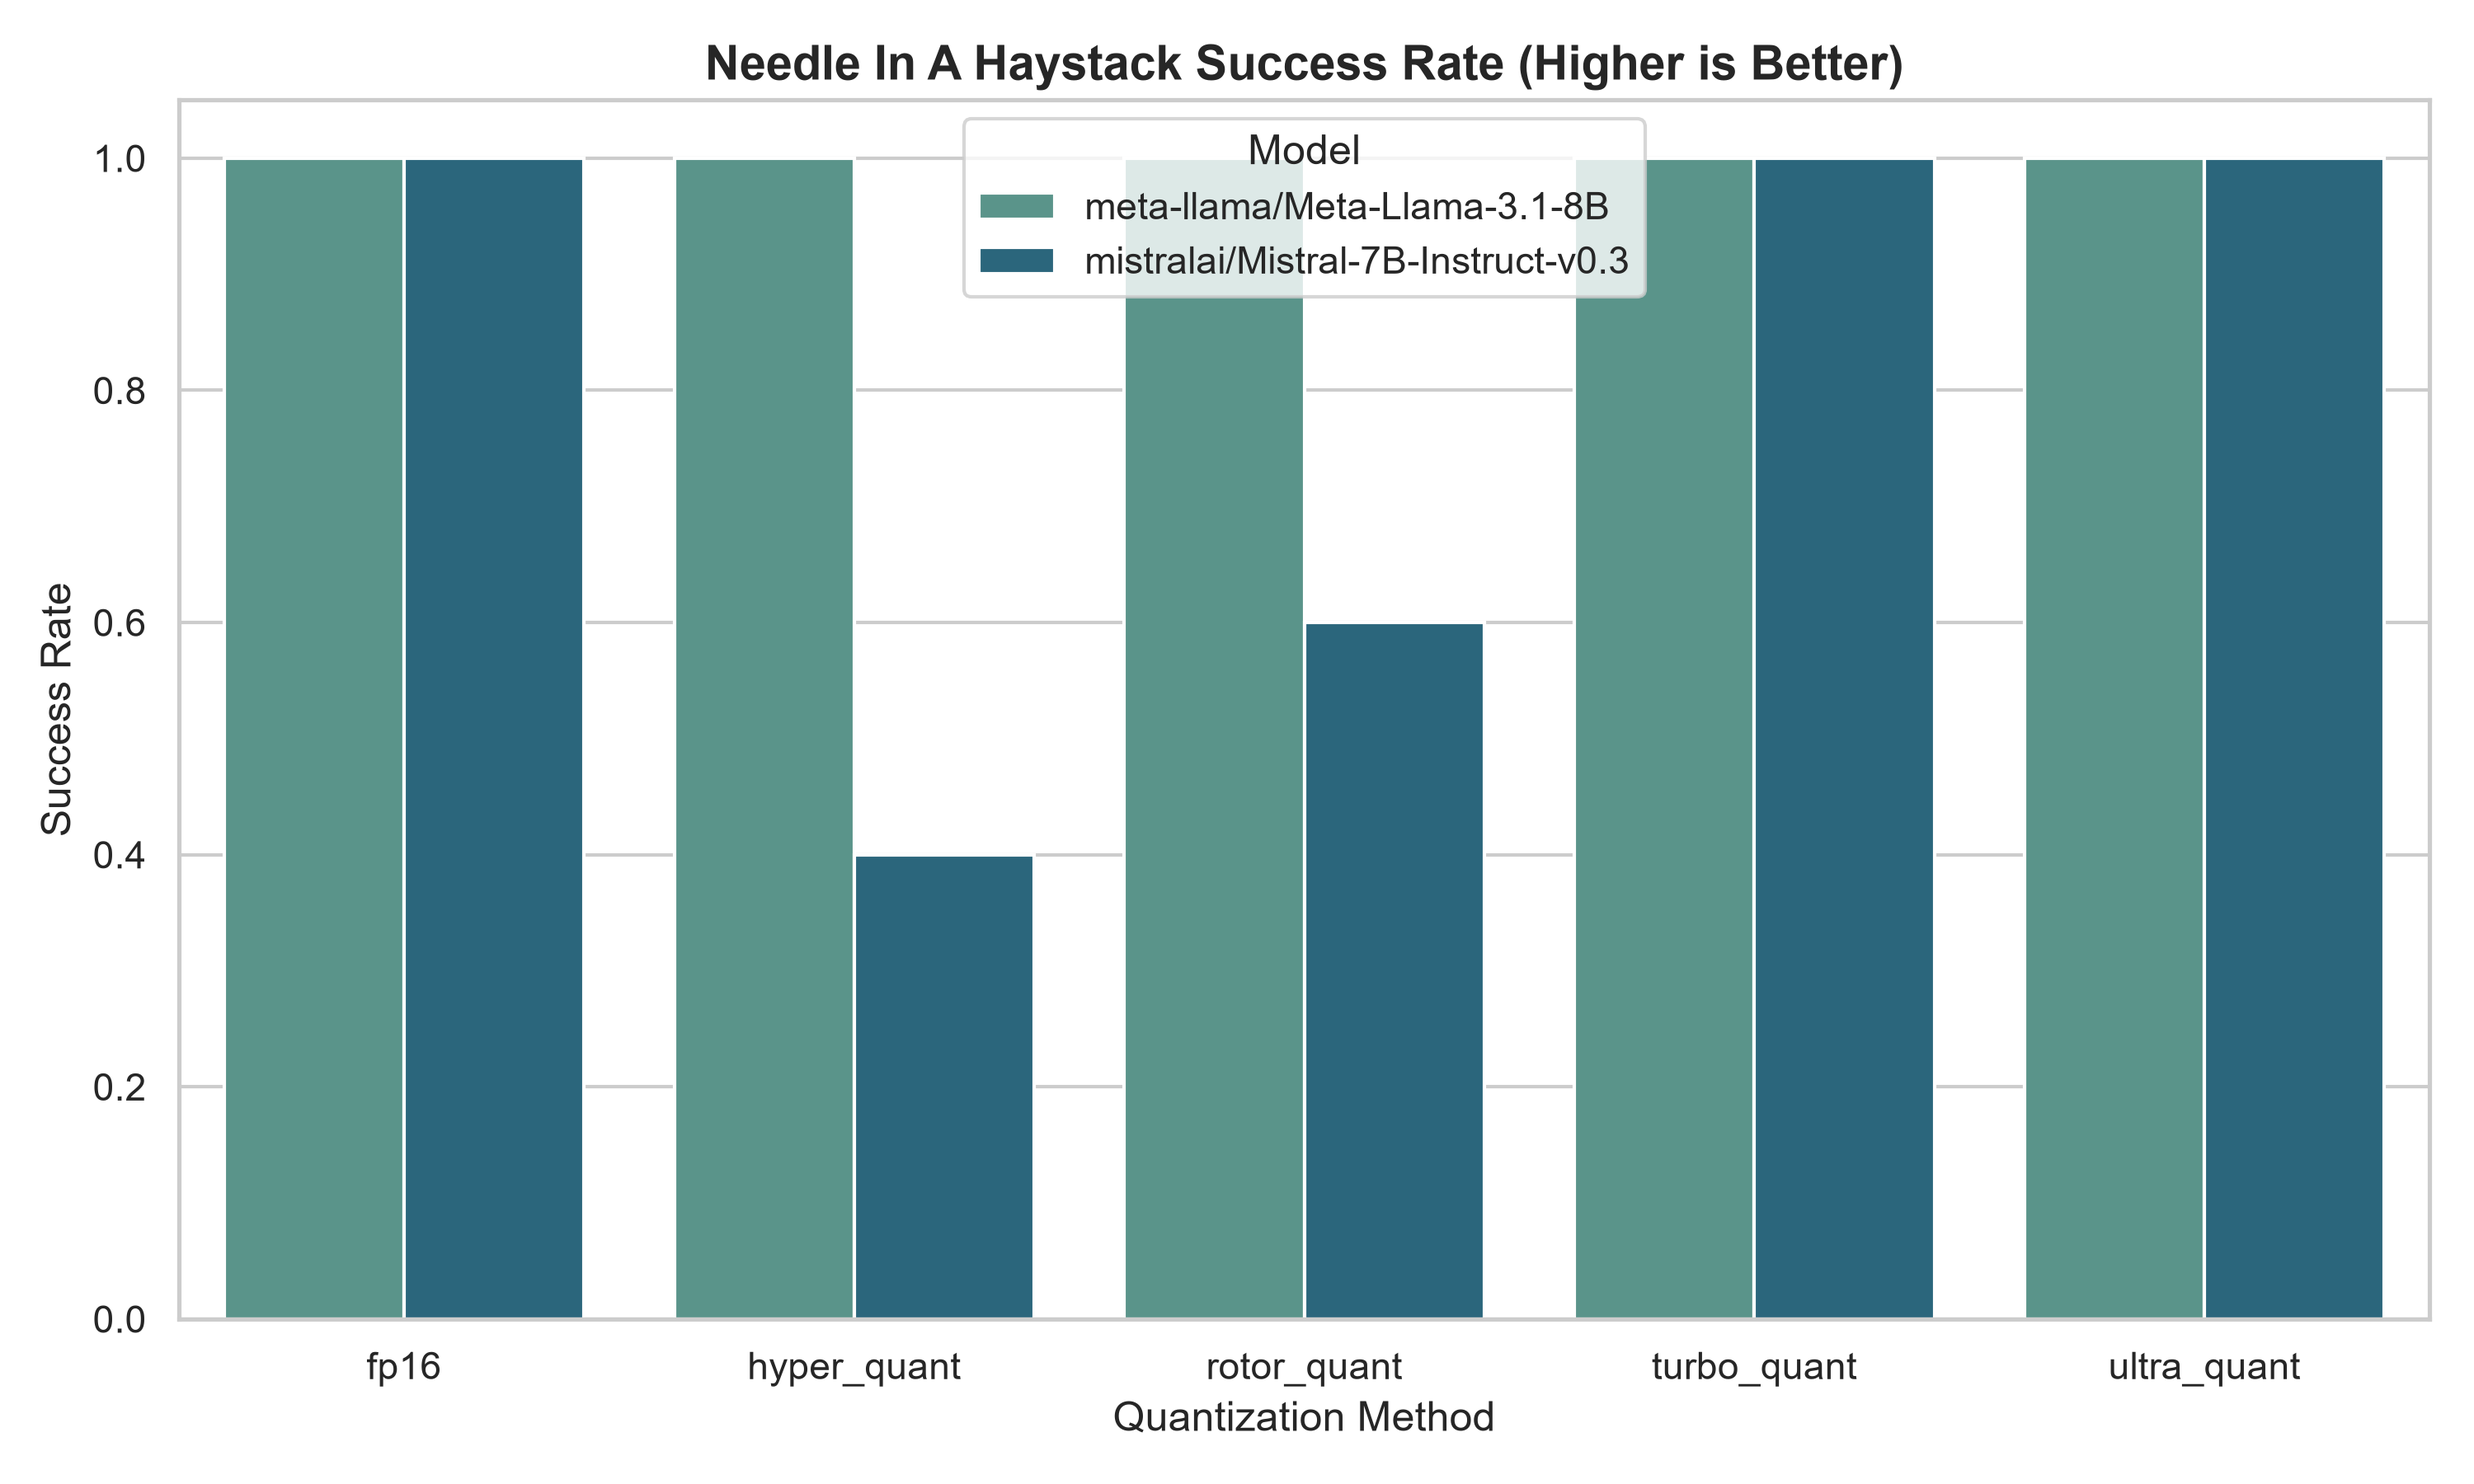
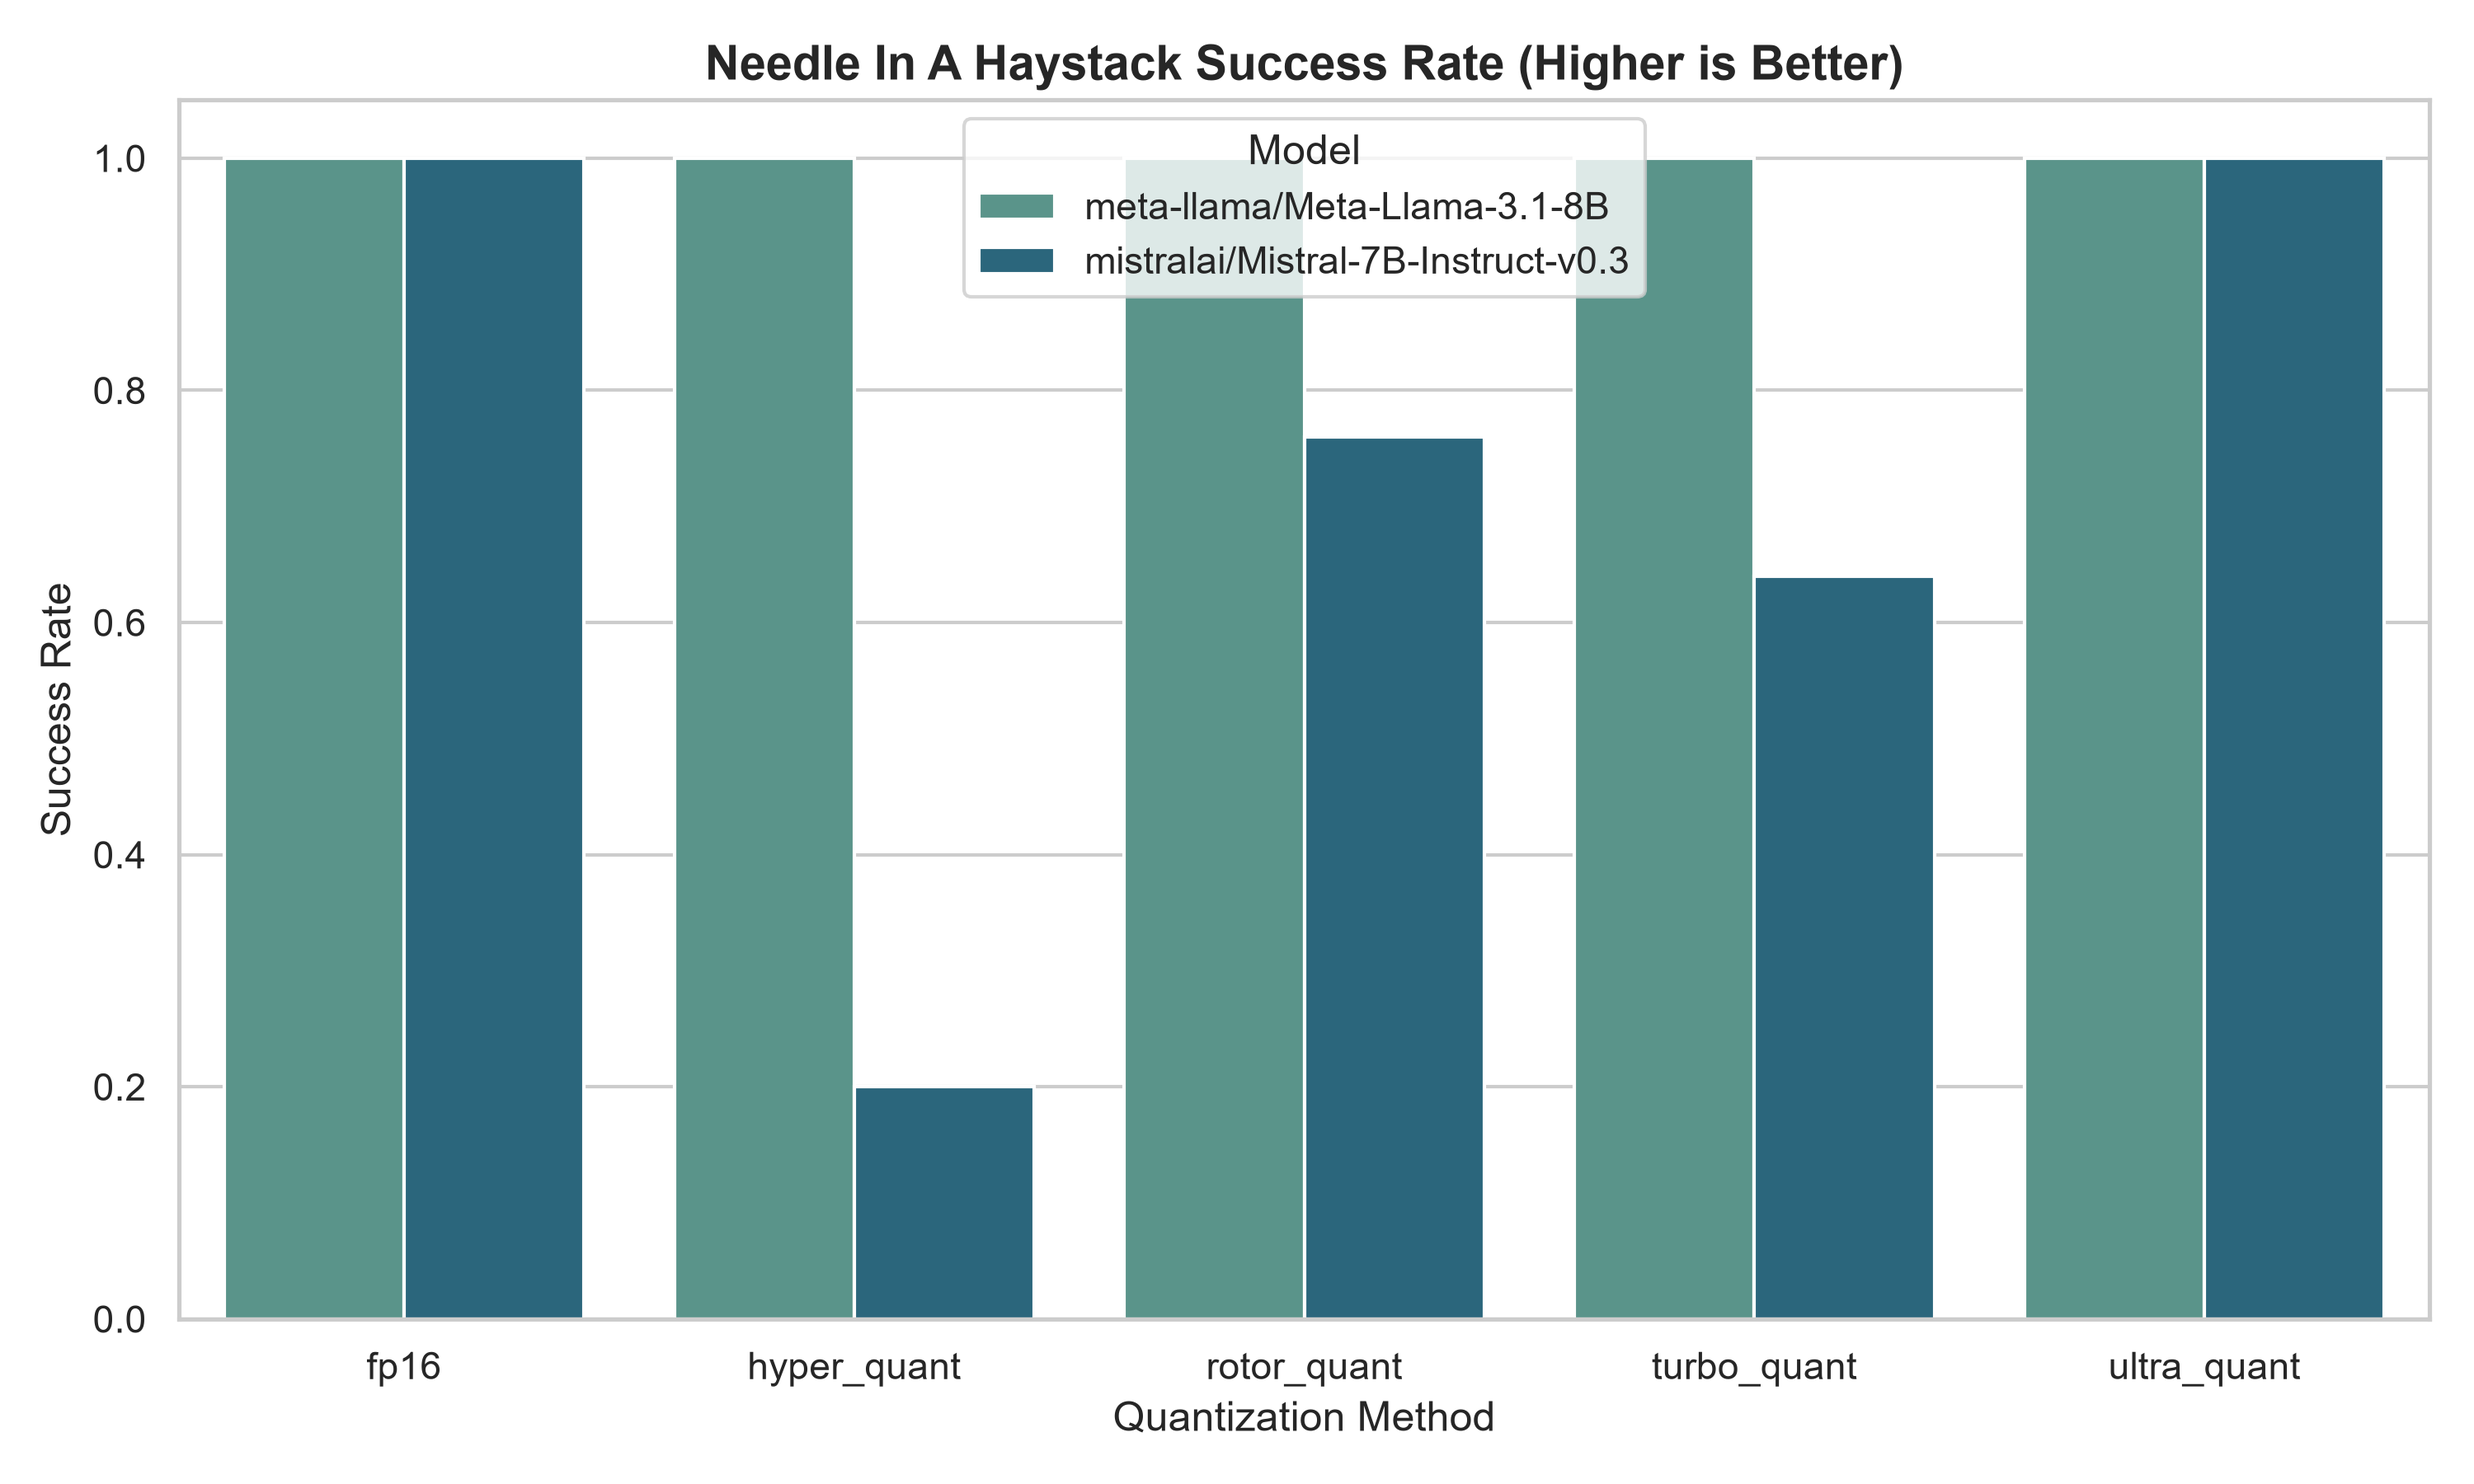
Update READMEs & results summary to 25-trial NIAH results; regenerate summary CSV & plots

Changed region(s): [[0.682, 0.0933, 0.806, 0.4044], [0.341, 0.56, 0.434, 0.7467], [0.527, 0.28, 0.62, 0.4356]]

diff --git a/README.ja.md b/README.ja.md
@@ -154,7 +154,7 @@ ultra_quant は FP4 (E2M1) の **16点固定グリッドが手法の定義その
 - **Perplexity**：WikiText-2、window 2048 / stride 512 → `eval_pt/eval_ppl.py`
 - **Logit 忠実度**：最終 logits のコサイン類似度・Top-1一致率・Top-5**重なり率**（seq 1024） → `eval_pt/eval_fidelity.py`
 - **KV 忠実度**：キャッシュの K/V ベクトル自体のコサイン類似度・相対L2誤差（量子化誤差そのものを直接測定） → 同上
-- **NIAH**：深度 {10/30/50/70/90%} × 1 試行の**成功率**（8Kコンテキスト、greedy 16トークン、鍵の完全一致） → `eval_pt/eval_niah.py`
+- **NIAH**：深度 {10/30/50/70/90%} × 各深度5試行（= 計25試行）の**成功率**（8Kコンテキスト、greedy 16トークン、鍵の完全一致） → `eval_pt/eval_niah.py`
 - **LongBench**：正式 LongBench の **Qasper** QAタスク、先頭10サンプル、公式形式のトークンF1、左側6144トークン切り捨て → `eval_pt/eval_longbench.py`
 
 ### システム指標（主張の範囲を限定した扱い）
@@ -176,7 +176,7 @@ ultra_quant は FP4 (E2M1) の **16点固定グリッドが手法の定義その
 対象モデル：`meta-llama/Meta-Llama-3.1-8B`、`mistralai/Mistral-7B-Instruct-v0.3`
 比較手法：fp16（ベースライン）、turbo_quant、rotor_quant、hyper_quant、ultra_quant
 
-> 🗂 **結果の出処**：以下の表は 2026-08 の修正済みハーネスでの再計測値です（jobs 373124 + 373434、`results/ai-l40s/*.json` を機械集計した全表は [`results/ai-l40s/valid_results_summary.md`](results/ai-l40s/valid_results_summary.md)）。
+> 🗂 **結果の出処**：以下の表は 2026-08 の修正済みハーネスでの再計測値です（jobs 373124 + 373434、および NIAH の `trials_per_depth=5` 再実行・fp16 LongBench 再実行の job 373457、ultra_quant 専用 sanity の job 373515。`results/ai-l40s/*.json` を機械集計した全表は [`results/ai-l40s/valid_results_summary.md`](results/ai-l40s/valid_results_summary.md)、マージ済みデータは `python results/summarize_results.py` で生成した [`summary_results.csv`](summary_results.csv)）。
 
 ### 1. KVキャッシュ footprint（解析的、8Kコンテキスト、導出値）
 
@@ -237,39 +237,39 @@ ultra_quant は FP4 (E2M1) の **16点固定グリッドが手法の定義その
 
 **Sanity gate**：両モデル PASS（passthrough が fp16 とトークン完全一致、7bit で準ロスレス生成。Llama の hyper_quant 7bit のみ一致率 0.875 でしたが基準 0.5 はクリア。なお ultra_quant は 7bit テスト対象外のため含まず、専用 sanity は `run_sanity_ultra_ai_l40s.sh` で別途実施）。
 
-**NIAH（8Kコンテキスト、深度5 × 1試行の成功率）**
+**NIAH（8Kコンテキスト、深度5 × 各5試行 = 計25試行の成功率）**
 
 | モデル | 手法 | 成功率 |
 | :--- | :--- | :---: |
-| Meta-Llama-3.1-8B | fp16 | 5/5 (1.00) |
-| | turbo_quant | 5/5 (1.00) |
-| | rotor_quant | 5/5 (1.00) |
-| | hyper_quant | 5/5 (1.00) |
-| | ultra_quant | 5/5 (1.00) |
-| Mistral-7B-Instruct-v0.3 | fp16 | 5/5 (1.00) |
-| | turbo_quant | 5/5 (1.00) |
-| | rotor_quant | 3/5 (0.60) |
-| | hyper_quant | 2/5 (0.40) |
-| | ultra_quant | 5/5 (1.00) |
+| Meta-Llama-3.1-8B | fp16 | 25/25 (1.00) |
+| | turbo_quant | 25/25 (1.00) |
+| | rotor_quant | 25/25 (1.00) |
+| | hyper_quant | 25/25 (1.00) |
+| | ultra_quant | 25/25 (1.00) |
+| Mistral-7B-Instruct-v0.3 | fp16 | 25/25 (1.00) |
+| | turbo_quant | 16/25 (0.64) |
+| | rotor_quant | 19/25 (0.76) |
+| | hyper_quant | 5/25 (0.20) |
+| | ultra_quant | 25/25 (1.00) |
 
-なお1深度1試行のため統計的な分解能は小さい点に注意。旧結論「全手法 False」はハーネスのバグ由来で撤回済みです。
+統計的分解能を上げるため各深度5試行（job 373457）で再計測しました。25試行プロトコルでは5試行版では見えなかった劣化も捕捉されます（Mistral の turbo_quant は 5/5 → 16/25）。モデル依存性の向きは PPL・忠実度と逆です：検索タスクでは Llama-3.1-8B が全手法パーフェクトなのに対し、Mistral-7B では 3bit手法が劣化（turbo 0.64 / rotor 0.76 / hyper 0.20）。ultra_quant は両モデルで検索耐性があります。旧結論「全手法 False」はハーネスのバグ由来で撤回済みです。
 
 **LongBench（Qasper QA-F1、先頭10サンプル、左6144トークン切り捨て — 高いほど良い）**
 
 | モデル | 手法 | 平均 QA-F1 |
 | :--- | :--- | ---: |
-| Meta-Llama-3.1-8B | fp16 | 0.2997 * |
+| Meta-Llama-3.1-8B | fp16 | 0.2997 |
 | | turbo_quant | 0.1580 |
 | | rotor_quant | 0.2551 |
 | | hyper_quant | 0.1859 |
 | | ultra_quant | 0.2832 |
-| Mistral-7B-Instruct-v0.3 | fp16 | 0.3256 * |
+| Mistral-7B-Instruct-v0.3 | fp16 | 0.3256 |
 | | turbo_quant | 0.3135 |
 | | rotor_quant | 0.2813 |
 | | hyper_quant | 0.2582 |
 | | ultra_quant | 0.2856 |
 
-\* fp16 の2ファイルは、失われた生JSONをログから復元したものです（question/references欠損・予測文80字打ち切り）。平均F1の値自体はログの生値で有効です。旧結果（スコアなしの崩壊テキスト）はキャッシュバグ由来で**撤回済み**です。
+fp16 の2本は job 373457 で正規に再計測され、以前のログ復元ファイルを置き換えました（平均F1は従来の報告値 0.2997 / 0.3256 を完全一致で再現）。旧結果（スコアなしの崩壊テキスト）はキャッシュバグ由来で**撤回済み**です。
 
 **速度（8Kコンテキスト、32トークン生成、3回中央値 — 量子化オーバーヘッドの測定であり、高速化の主張はしません）**
 
@@ -395,7 +395,8 @@ kvq-bench/
 │
 └── hpc_scripts/                # 4. HPC (Slurm) ジョブスクリプト
     ├── run_all_evals_ai_l40s.sh      # sanity → footprint → ppl → fidelity → niah → longbench → speed
-    └── run_sanity_ultra_ai_l40s.sh   # ultra_quant 専用 sanity のみ
+    ├── run_sanity_ultra_ai_l40s.sh   # ultra_quant 専用 sanity のみ
+    └── run_rerun_niah_fp16longbench_ai_l40s.sh  # NIAH再実行（trials_per_depth=5）＋ fp16 LongBench再実行
 ```
 
 ---

diff --git a/README.md b/README.md
@@ -152,7 +152,7 @@ ultra_quant is defined by a **fixed 16-point FP4 (E2M1) grid** — a "7-bit equi
 - **Perplexity** — WikiText-2, window 2048 / stride 512 → `eval_pt/eval_ppl.py`
 - **Logit fidelity** — cosine similarity, Top-1 match, Top-5 **overlap** rate of *final logits* against the fp16 run (seq 1024) → `eval_pt/eval_fidelity.py`
 - **KV fidelity** — cosine similarity and relative L2 error of the cached K/V vectors themselves vs fp16 (isolates quantization error from model nonlinearity) → same script
-- **NIAH (Needle In A Haystack)** — success **rate** over depths {10/30/50/70/90%} × 1 trial at 8K context, greedy 16-token decode, exact key match → `eval_pt/eval_niah.py`
+- **NIAH (Needle In A Haystack)** — success **rate** over depths {10/30/50/70/90%} × 5 trials per depth (= 25 trials) at 8K context, greedy 16-token decode, exact key match → `eval_pt/eval_niah.py`
 - **LongBench** — real LongBench **Qasper** QA task, first 10 samples, official-style token F1, context truncated to 6144 from the left → `eval_pt/eval_longbench.py`
 
 ### Systems metrics (carefully framed)
@@ -176,7 +176,7 @@ The standalone C++ micro-benchmark reports:
 Models: `meta-llama/Meta-Llama-3.1-8B`, `mistralai/Mistral-7B-Instruct-v0.3`
 Methods: fp16 (baseline), turbo_quant, rotor_quant, hyper_quant, ultra_quant
 
-> 🗂 **Provenance**: the tables below are from the 2026-08 re-measurement with the fixed harness (jobs 373124 + 373434; full machine-aggregated tables in [`results/ai-l40s/valid_results_summary.md`](results/ai-l40s/valid_results_summary.md)).
+> 🗂 **Provenance**: the tables below are from the 2026-08 re-measurement with the fixed harness (jobs 373124 + 373434, plus job 373457 for NIAH at `trials_per_depth=5` and the fp16 LongBench re-run, and job 373515 for the ultra_quant sanity; full machine-aggregated tables in [`results/ai-l40s/valid_results_summary.md`](results/ai-l40s/valid_results_summary.md); merged data in [`summary_results.csv`](summary_results.csv) via `python results/summarize_results.py`).
 
 ### 1. KV cache footprint — analytical (8K context, derived values)
 
@@ -239,39 +239,39 @@ These are single-forward (prefill-style) evaluations. Fidelity is measured in **
 
 **Sanity gate**: PASS on both models (passthrough reproduces fp16 token-for-token; 7-bit quantizers near-lossless — Llama's hyper_quant 7-bit matched at 0.875, above the 0.5 criterion; ultra_quant is not part of the 7-bit gate and is covered separately via `run_sanity_ultra_ai_l40s.sh`).
 
-**NIAH (8K context, success rate over 5 depths × 1 trial)**
+**NIAH (8K context, success rate over 5 depths × 5 trials = 25 trials)**
 
 | Model | Method | Success rate |
 | :--- | :--- | :---: |
-| Meta-Llama-3.1-8B | fp16 | 5/5 (1.00) |
-| | turbo_quant | 5/5 (1.00) |
-| | rotor_quant | 5/5 (1.00) |
-| | hyper_quant | 5/5 (1.00) |
-| | ultra_quant | 5/5 (1.00) |
-| Mistral-7B-Instruct-v0.3 | fp16 | 5/5 (1.00) |
-| | turbo_quant | 5/5 (1.00) |
-| | rotor_quant | 3/5 (0.60) |
-| | hyper_quant | 2/5 (0.40) |
-| | ultra_quant | 5/5 (1.00) |
+| Meta-Llama-3.1-8B | fp16 | 25/25 (1.00) |
+| | turbo_quant | 25/25 (1.00) |
+| | rotor_quant | 25/25 (1.00) |
+| | hyper_quant | 25/25 (1.00) |
+| | ultra_quant | 25/25 (1.00) |
+| Mistral-7B-Instruct-v0.3 | fp16 | 25/25 (1.00) |
+| | turbo_quant | 16/25 (0.64) |
+| | rotor_quant | 19/25 (0.76) |
+| | hyper_quant | 5/25 (0.20) |
+| | ultra_quant | 25/25 (1.00) |
 
-Note the small statistical resolution at 1 trial per depth. The old "all methods False" conclusion was a harness bug and is retracted.
+Re-measured at 5 trials per depth (job 373457) for better statistical resolution; the 25-trial protocol also reveals degradation the 5-trial version missed (Mistral turbo_quant dropped from 5/5 to 16/25). The model-dependence is inverted vs. PPL/fidelity: on retrieval, Mistral-7B suffers under the 3-bit methods (turbo 0.64 / rotor 0.76 / hyper 0.20) while Llama-3.1-8B stays perfect across all five methods; ultra_quant is retrieval-safe on both. The old "all methods False" conclusion was a harness bug and remains retracted.
 
 **LongBench (Qasper QA-F1, first 10 samples, context truncated to 6144 from the left — higher is better)**
 
 | Model | Method | Mean QA-F1 |
 | :--- | :--- | ---: |
-| Meta-Llama-3.1-8B | fp16 | 0.2997 * |
+| Meta-Llama-3.1-8B | fp16 | 0.2997 |
 | | turbo_quant | 0.1580 |
 | | rotor_quant | 0.2551 |
 | | hyper_quant | 0.1859 |
 | | ultra_quant | 0.2832 |
-| Mistral-7B-Instruct-v0.3 | fp16 | 0.3256 * |
+| Mistral-7B-Instruct-v0.3 | fp16 | 0.3256 |
 | | turbo_quant | 0.3135 |
 | | rotor_quant | 0.2813 |
 | | hyper_quant | 0.2582 |
 | | ultra_quant | 0.2856 |
 
-\* The two fp16 JSON files were restored from the log after the raw files were lost (questions/references missing, predictions truncated at 80 chars); the mean F1 itself is the value reported by the run and remains valid. The old results (un-scored degenerate text) were caused by the cache bug and are **retracted**.
+The two fp16 runs were re-measured fresh in job 373457, superseding the earlier log-restored files; the mean F1 values reproduced the previously reported numbers exactly (0.2997 / 0.3256). The old results (un-scored degenerate text) were caused by the cache bug and are **retracted**.
 
 **Speed (8K context, 32 generated tokens, median of 3 — a quantization-overhead measurement; no speedup claims)**
 
@@ -397,7 +397,8 @@ kvq-bench/
 │
 └── hpc_scripts/                # 4. HPC (Slurm) job scripts
     ├── run_all_evals_ai_l40s.sh      # sanity → footprint → ppl → fidelity → niah → longbench → speed
-    └── run_sanity_ultra_ai_l40s.sh   # ultra_quant-only sanity
+    ├── run_sanity_ultra_ai_l40s.sh   # ultra_quant-only sanity
+    └── run_rerun_niah_fp16longbench_ai_l40s.sh  # NIAH re-run (trials_per_depth=5) + fp16 LongBench re-run
 ```
 
 ---
